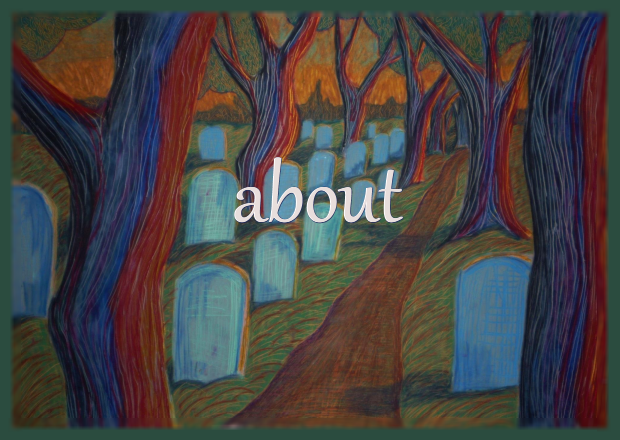
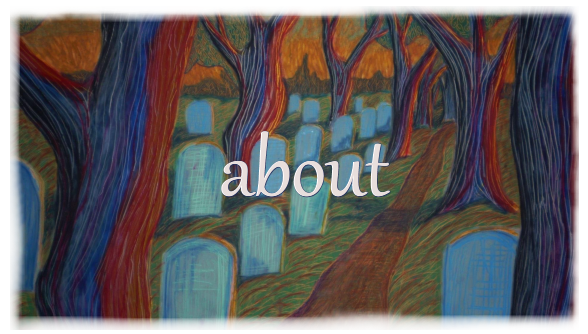
new

diff --git a/bindex.html b/bindex.html
@@ -35,13 +35,13 @@
 
     </div>
 
+    <div class="content">
+
     <div id="abo" class="hide">
 
-        <div class="border">
+        <div>
 
-            <img src="art/abhead.png">
-
-                <div class="inner margbot">
+                <div>
     
                     <p>I started building websites for fun when I was around ten or so years old because the internet was new and weird at the time and so was I, I guess.</p>
         
@@ -49,16 +49,14 @@
         
                     <p>More recently I found a bunch of retro-style websites reminiscent of the 90s and wanted my creative outlet back.</p>
                     
-                    <p><img src="art/cemline.png"></p>
+<hr>
                     
                     <p>This website is coded with love and mild frustration by Yours Truly using Visual Studio Code and GitHub. I make the graphics using Paint Shop Pro 7 and Gimp. The site is viewable on a mobile device but is best viewed on a larger screen of
                         some kind, I guess a PC or whatever.</p>
     
                         </div>
     
-                        <div class="inner margbot">
-                            
-                            <p><img src="art/cemline.png"></p>
+                        <div>
 
                     <h3>Inspiration and resources</h3>
         
@@ -113,7 +111,7 @@
     
                 </div>
 
-            </div>
+                </div>
 
             </div>
 
@@ -121,57 +119,57 @@
 
         <h1>Artwork</h1>
                         
-                <div class="fram"><a href="art/headream.JPG" target="_blank"><img src="art/headream.JPG" title="Some weird surreal drawing I did based on a dream I had, 2013, oil pastel on paper"></a></div>
+                <div><a href="art/headream.JPG" target="_blank"><img src="art/headream.JPG" title="Some weird surreal drawing I did based on a dream I had, 2013, oil pastel on paper"></a></div>
 
-                <div class="fram"><a href="art/fanwood.jpg" target="_blank"><img src="art/fanwood.jpg" title="Fanwood Train Station at night, 2009 or so, oil on canvas"></a></div>
+                <div><a href="art/fanwood.jpg" target="_blank"><img src="art/fanwood.jpg" title="Fanwood Train Station at night, 2009 or so, oil on canvas"></a></div>
                         
-                <div class="fram"><a href="art/musc.png" target="_blank"><img src="art/musc.png" title="First attempt at sketching with a digital sketch pad, 2024"></a></div>
+                <div><a href="art/musc.png" target="_blank"><img src="art/musc.png" title="First attempt at sketching with a digital sketch pad, 2024"></a></div>
                    
-                <div class="fram"><a href="art/gard.png" target="_blank"><img src="art/gard.png" title="Quick digital sketch of my garden, 2024"></a></div>
+                <div><a href="art/gard.png" target="_blank"><img src="art/gard.png" title="Quick digital sketch of my garden, 2024"></a></div>
                   
-                <div class="fram"><a href="art/fish.png" target="_blank"><img src="art/fish.png" title="Second attempt at sketching with a digital sketch pad, 2024"></a></div>
+                <div><a href="art/fish.png" target="_blank"><img src="art/fish.png" title="Second attempt at sketching with a digital sketch pad, 2024"></a></div>
               
-                <div class="fram"><a href="art/montr.png" target="_blank"><img src="art/montr.png" title="Montreal, 2024, digital"></a></div>
+                <div><a href="art/montr.png" target="_blank"><img src="art/montr.png" title="Montreal, 2024, digital"></a></div>
             
-                <div class="fram"><a href="art/bgflwr.png" target="_blank"><img src="art/bgflwr.png" title="Inspired by a skirt I used to wear, 2024, digital"></a></div>
+                <div><a href="art/bgflwr.png" target="_blank"><img src="art/bgflwr.png" title="Inspired by a skirt I used to wear, 2024, digital"></a></div>
             
-                <div class="fram"><a href="art/pots.jpg" target="_blank"><img src="art/pots.jpg" title="Pots and things I drew in college, 2008, charcoal on paper"></a></div>
+                <div><a href="art/pots.jpg" target="_blank"><img src="art/pots.jpg" title="Pots and things I drew in college, 2008, charcoal on paper"></a></div>
             
-                <div class="fram"><a href="art/bulbs.png" target="_blank"><img src="art/bulbs.png" title="Some flower bulbs, 2024, digital"></a></div>
+                <div><a href="art/bulbs.png" target="_blank"><img src="art/bulbs.png" title="Some flower bulbs, 2024, digital"></a></div>
             
-                <div class="fram"><a href="art/int.jpg" target="_blank"><img src="art/int.jpg" title="A view from my couch, 2023, pastel on black cardboard"></a></div>
+                <div><a href="art/int.jpg" target="_blank"><img src="art/int.jpg" title="A view from my couch, 2023, pastel on black cardboard"></a></div>
                     
-                <div class="fram"><a href="art/memunch.png" target="_blank"><img src="art/memunch.png" title="Self-portrait in the style of Edvard Munch, circa 2009, charcoal on paper"></a></div>
+                <div><a href="art/memunch.png" target="_blank"><img src="art/memunch.png" title="Self-portrait in the style of Edvard Munch, circa 2009, charcoal on paper"></a></div>
                         
-                <div class="fram"><a href="art/shore.jpg" target="_blank"><img src="art/shore.jpg" title="'Down the Shore,' 2017, pastel on paper"></a></div>
+                <div><a href="art/shore.jpg" target="_blank"><img src="art/shore.jpg" title="'Down the Shore,' 2017, pastel on paper"></a></div>
              
-                <div class="fram"><a href="art/cloth.png" target="_blank"><img src="art/cloth.png" title="My first-ever oil painting of a cloth, 2009, oil on canvas"></a></div>
+                <div><a href="art/cloth.png" target="_blank"><img src="art/cloth.png" title="My first-ever oil painting of a cloth, 2009, oil on canvas"></a></div>
                 
-                <div class="fram"><a href="art/sneak.png" target="_blank"><img src="art/sneak.png" title="'The Sneak,' circa 2012, oil pastel on paper"></a></div>
+                <div><a href="art/sneak.png" target="_blank"><img src="art/sneak.png" title="'The Sneak,' circa 2012, oil pastel on paper"></a></div>
             
-                <div class="fram"><a href="art/baronpt2.png" target="_blank"><img src="art/baronpt2.png" title="Portait of my boyfriend's childhood dog Baron, 2023, acrylic on canvas"></a></div>
+                <div><a href="art/baronpt2.png" target="_blank"><img src="art/baronpt2.png" title="Portait of my boyfriend's childhood dog Baron, 2023, acrylic on canvas"></a></div>
             
-                <div class="fram"><a href="art/cemetier.png" target="_blank"><img src="art/cemetier.png" title="'La Cimetière', 2012, oil pastel on paper"></a></div>
+                <div><a href="art/cemetier.png" target="_blank"><img src="art/cemetier.png" title="'La Cimetière', 2012, oil pastel on paper"></a></div>
                     
-                <div class="fram"><a href="art/beard.png" target="_blank"><img src="art/beard.png" title="Sketch from an unknown source, circa 2013, pastel on paper"></a></div>
+                <div><a href="art/beard.png" target="_blank"><img src="art/beard.png" title="Sketch from an unknown source, circa 2013, pastel on paper"></a></div>
             
-                <div class="fram"><a href="art/headnest.png" target="_blank"><img src="art/headnest.png" title="A nest, 2024, digital"></a></div>
+                <div><a href="art/headnest.png" target="_blank"><img src="art/headnest.png" title="A nest, 2024, digital"></a></div>
             
-                <div class="fram"><a href="art/gutterman.jpg" target="_blank"><img src="art/gutterman.jpg" title="Portrait of my high school art teacher, 2004[?], acrylic on canvas"></a></div>
+                <div><a href="art/gutterman.jpg" target="_blank"><img src="art/gutterman.jpg" title="Portrait of my high school art teacher, 2004[?], acrylic on canvas"></a></div>
             
-                <div class="fram"><a href="art/skull.jpg" target="_blank"><img src="art/skull.jpg" title="Skull, 2005 ish, pencil on paper"></a></div>
+                <div><a href="art/skull.jpg" target="_blank"><img src="art/skull.jpg" title="Skull, 2005 ish, pencil on paper"></a></div>
                         
-                <div class="fram"><a href="art/classroom.JPG" target="_blank"><img src="art/classroom.JPG" title="An empty classroom in my college art building, 2010, oil on canvas"></a></div>
+                <div><a href="art/classroom.JPG" target="_blank"><img src="art/classroom.JPG" title="An empty classroom in my college art building, 2010, oil on canvas"></a></div>
                             
                 </div>
 
     <div id="bee" class="hide">
         
-        <div class="bordet">
+        <div>
             
-            <div class="flexbo wif marg">
+            <div>
 
-                <div class="innet">
+                <div>
 
                     <p>I worked at a beer bar for a good chunk of my life when I was a post-college, directionless young person. I look back fondly on those years, mainly because of the people I met and the things I learned, but also because I developed a taste
                         for craft beer. Here I will try to remember and describe some of my favorites.</p>
@@ -180,28 +178,28 @@
         
                     </div>
 
-            <div class="innet wid">
+            <div>
 
             <img src="art/brtavspr.png" title="Yards Tavern Spruce">
             Yards Tavern Spruce holds a special place in my heart because it was the first beer that I really liked and that had a flavor I could recognize. It really does have a spruce taste to it and this is how I learned that I enjoy floral beers.
 
         </div>
             
-        <div class="innet wid">
+        <div>
             
             <img src="art/brmadelf.png" title="Tro&#x308;egs Mad Elf">
             Tro&#x308;egs Mad Elf. What a doozy! 'Tis the season! I can have maybe one of these per year because they are mighty strong in both alcohol content and flavor. It's also kind of fun that the batch is slightly different every year.
 
         </div>
             
-        <div class="innet wid">
+        <div>
             
             <img src="art/brmilkst.png" title="Left Hand Milk Stout Nitro">
             Left Hand Milk Stout Nitro: As if the milk stout could get any better! Make it smoother and put it in a fun bottle that you get to turn upside down into a glass and watch the cascade. Almost as fun as drinking it!
 
             </div>
 
-            <div class="innet wid">
+            <div>
             
                 <h4>Beers to add</h4>
                 
@@ -335,12 +333,21 @@
 
                 </ul>    
 
-                <h3><img src="art/tinytom.png"> Recently completed recipes <img src="art/tinytom.png"></h3>
+                <h3><img src="art/tinytom.png"> Completed recipes <img src="art/tinytom.png"></h3>
 
                 <ul>
 
                     <li><a href="https://themodernproper.com/easy-chicken-ramen-soup" target="_blank">Easy Chicken Ramen Soup</a> [made with vegetables instead of chicken] <img src="art/tinblst.gif"><img src="art/tinblst.gif"><img src="art/tinblst.gif"></li>
                     
+                    <li><a href="https://www.thespruceeats.com/perfect-lemon-posset-recipe-435139" target="_blank">Lemon Posset</a> <img src="art/tinblst.gif"><img src="art/tinblst.gif">
+                        <ul>
+                            <li>This was an interesting adventure marked by working with a friend, not fully understanding how to zest a blood orange, not having enough heavy cream so using some oat milk, not knowing if freezing heavy cream makes it split, and not knowing if we'd cooked the cream slowly enough. Maybe pictures later.</li>
+                        </ul>
+                    </li>
+                    
+                    <li><a href="https://sweetphi.com/pasta-e-fagiole-soup/" target="_blank">Pasta E Fagiole Soup</a> <img src="art/tinblst.gif"><img src="art/tinblst.gif"><img src="art/tinblst.gif">
+                    </li>
+
                     <li><a href="https://whatsgabycooking.com/spinach-artichoke-strata/" target="_blank">Spinach Artichoke Strata</a> <img src="art/tinblst.gif"><img src="art/tinblst.gif"><img src="art/tinblst.gif"></li>
 
                 </ul>
@@ -348,12 +355,6 @@
                 <h3><img src="art/tinytom.png"> Recipes to try <img src="art/tinytom.png"></h3>
 
                 <ul>
-
-                    <li><a href="https://www.thespruceeats.com/perfect-lemon-posset-recipe-435139" target="_blank">Lemon Posset</a>
-                    </li>
-
-                    <li><a href="https://sweetphi.com/pasta-e-fagiole-soup/" target="_blank">Pasta E Fagiole Soup</a>
-                    </li>
                     
                     <li><a href="https://minimalistbaker.com/simple-vegan-dinner-rolls/" target="_blank">Vegan Dinner Rolls</a></li>
 
@@ -908,7 +909,7 @@
 
                 </div>
 
-    <div id="hom" class="hide">
+    <div id="hom">
                 
                     <h1>Welcome</h1>
                 
@@ -944,6 +945,8 @@
                     </div>
 
             </div>
+
+        </div>
 
 </body>
 

diff --git a/bstyle.css b/bstyle.css
@@ -1,149 +1,22 @@
-* {
-    box-sizing:border-box;
-}
-#art img {
-    display: block;
-    background-color: #94A290;
-    max-height: 68vh;
-    max-width: 38vw;
-}
-#bee img {
-    float: left;
-    padding: 10px;
-}
 body {
-    text-align: center;
-    font-family: 'Segoe UI', Tahoma, Geneva, Verdana, sans-serif;
-    font-size: 12px;
-}
-body, html {
-    border: 0;
-    min-height: 100vh;
-    margin: 0;
-    padding: 0;
-    width: 100%;
-    overflow: auto;
-}
-.border {
-    background-color: #2B4C3F;
-    min-height: 100vh;
-    padding: 48px 200px 48px 220px;
-}
-.bordet {
-    background-color: #6F5846;
-    background-attachment: fixed, scroll, scroll;
-    background-image: url("art/bgbeer.png"), url("art/bgbubb.gif"), url("art/bgbubye.gif");
-    min-height: 100vh;
-    padding: 28px 200px 28px 220px;
-}
-.flexbo {
+    background-color: #CBBFC0;
     display: flex;
-    gap: 10px 10px;
-    flex-wrap: wrap;
-    margin: auto;
+    gap: 22px;
 }
-.fram {
-    margin: 58px auto;
-    max-width: fit-content;
-    border: 1px solid #123D40;
+.content {
+    width: 644px;
+    border: 1px solid #FDD0BC;
+    overflow: auto;
+    height: 466px;
 }
-.heig {
-    min-height: 200px;
+.nav {
+    width: 244px;
+    height: 466px;
+    border: 1px solid #FDD0BC;
 }
 .hide {
 	display: none;
 }
 .hide:target {
     display:block;
-}
-hr {
-    border-bottom: 1px dashed #123D40;
-    max-width: 222px;
-    border-top: 0;
-}
-img {
-    max-width: 100%;
-}
-.inner {
-    background-color: #2B4C3F;
-    color: #E8DEDC;
-    width: 620px;
-}
-.inner a {
-    font-weight: bold;
-    text-decoration: none;
-    color: #E4933C;
-}
-.inner a:hover {
-    color: #DC0615;
-}
-.inner h3 {
-    color: #C8DBE4;
-    font-family: Georgia, 'Times New Roman', Times, serif;
-}
-.innet {
-    color: #f7e6dd;
-    border: 4px ridge #f0c2aa;
-    padding: 18px;
-    background-color: #6F5846;
-}
-.marg {
-    margin: auto;
-}
-.margbot {
-    margin: auto auto 22px auto;
-}
-.nav {
-    position: fixed;
-    background-color: #CFC4AD;
-    padding: 22px;
-}
-.nav ul {
-    list-style-type: none;
-    margin: 0;
-    padding: 0;
-}
-summary {
-    text-align: left;
-}
-table {
-    text-align: left;
-    margin: auto;
-}
-td {
-    min-width: 122px;
-}
-ul {
-    text-align: left;
-}
-.wid {
-    width: 300px;
-}
-.wif {
-    max-width: 610px;
-}
-
-@media only screen and (max-width: 800px) {
-    #art img {
-        max-width: 100%;
-        max-height: auto;
-    }
-    .bordet {
-        padding: 2px;
-    }
-    .inner, .innet {
-        margin: 4px 0;
-        padding: 2px;
-    }
-    .main {
-        margin: auto;
-        position: static;
-    }
-    .nav {
-        width: 100%;
-        position: static;
-    }
-    .nav li {
-        display: inline;
-    }
 }
